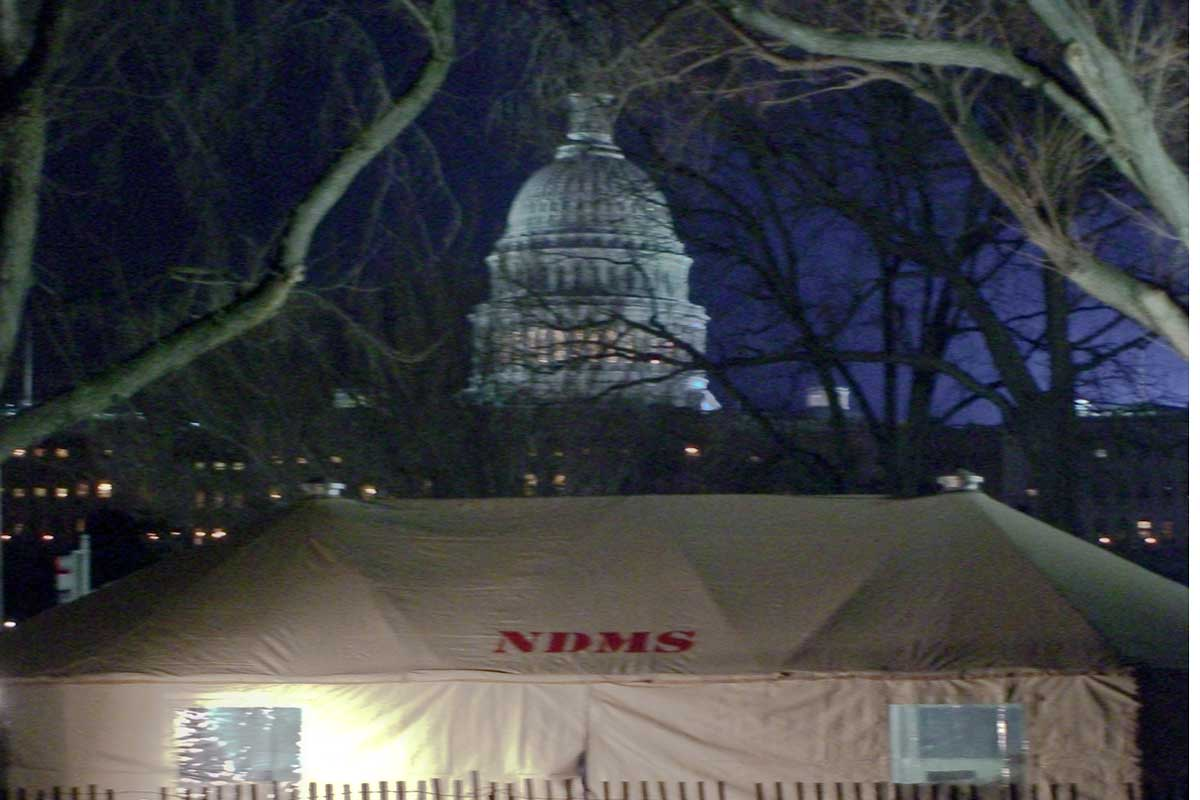
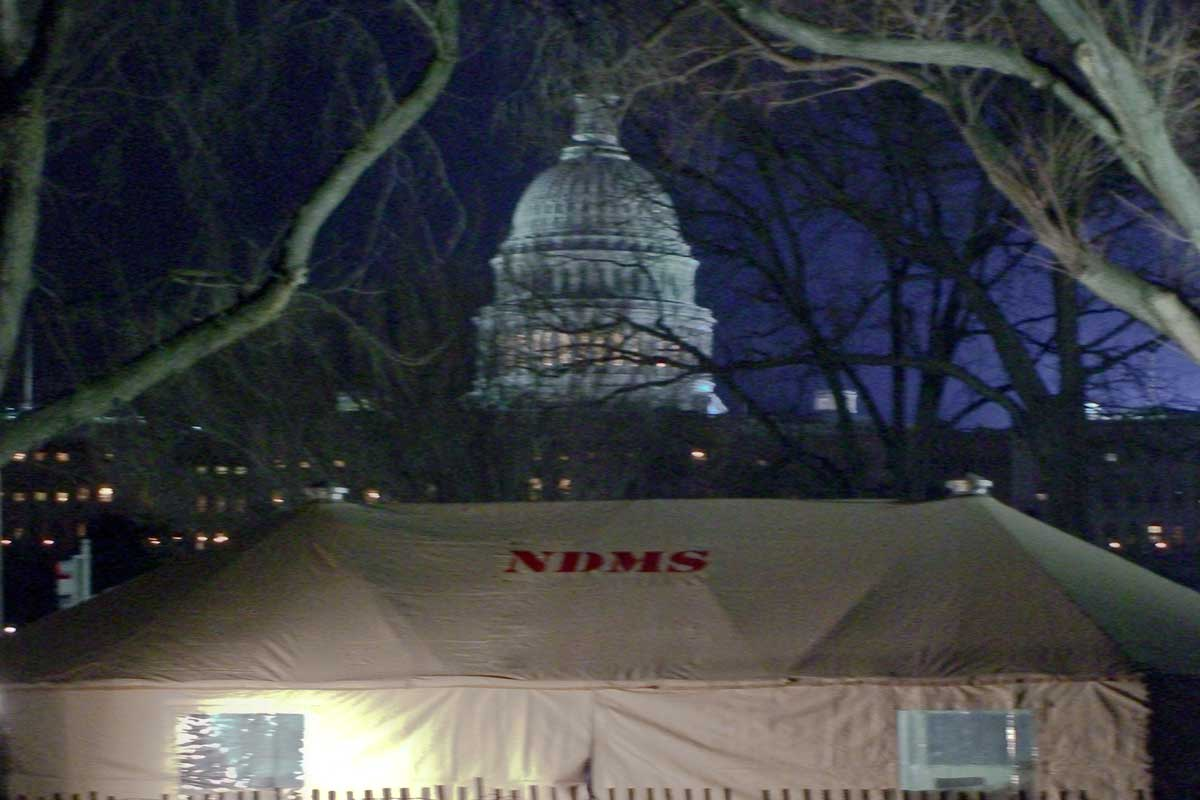
Tweaks capitol image

diff --git a/index.html b/index.html
@@ -78,7 +78,7 @@
       <!-- Wrapper for slides -->
       <div class="carousel-inner" style="background-color: #464646;">
         <div class="item active">
-          <div class="fill" style="background-image:url('images/capitol.jpg'); opacity: 0.4;"></div>
+          <div class="fill" style="background-image:url('images/capitol.jpg'); opacity: 0.6;"></div>
           <div class="carousel-caption">
             <h2>Maryland-1 DMAT</h2>
             <!-- <h2><em>MD-1 DMAT</em>, a group of dedicated medical and disaster response professionals from within the National Capitol Region.</h2> -->
